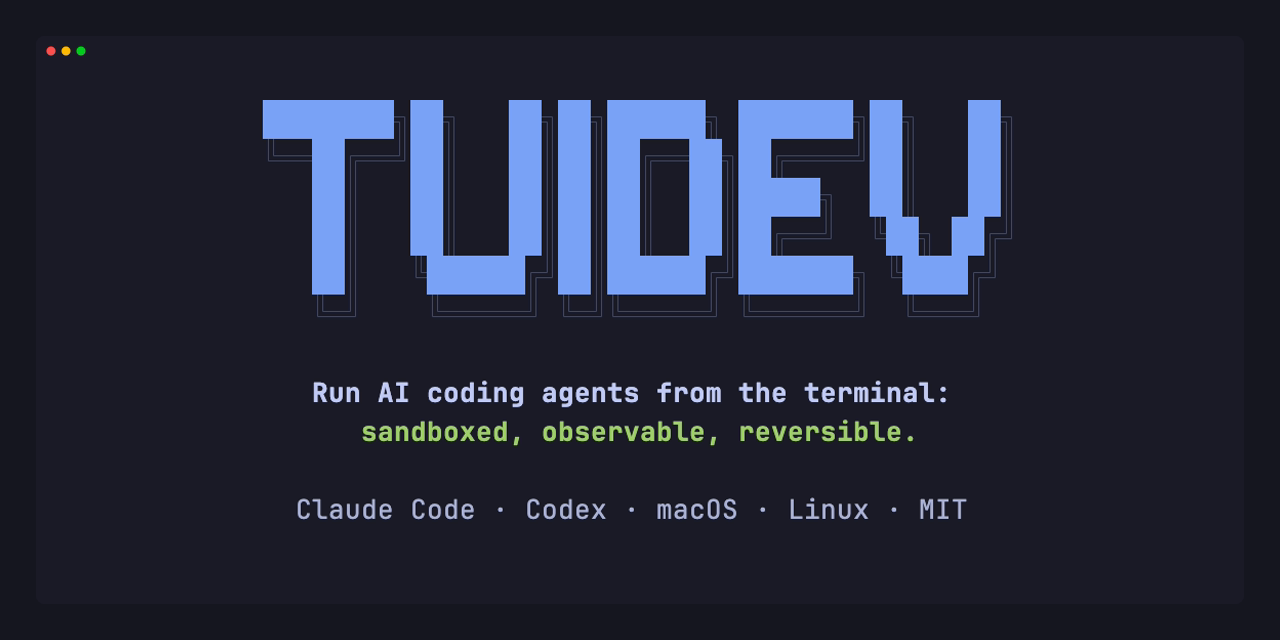
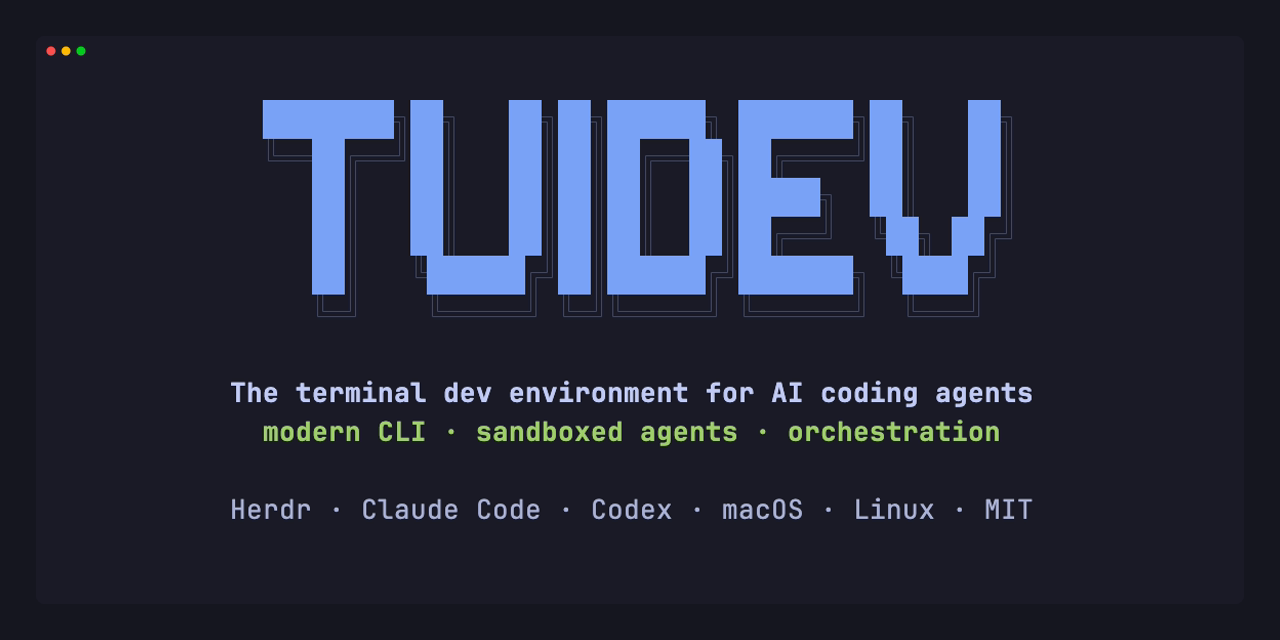
docs: present tuidev as a terminal dev environment for AI agents
README leads with a tour GIF and seven pillars; social card, VISION, quick start and CONTRIBUTING match.

Changed region(s): [[0.1562, 0.5938, 0.8125, 0.7188], [0.1562, 0.7812, 0.8125, 0.8125]]

diff --git a/README.md b/README.md
@@ -1,6 +1,6 @@
 # tuidev
 
-**A terminal setup for running AI coding agents on macOS and Linux: Claude Code and Codex sandboxed by default (`--pack ai-clis`), easy to watch, and installed in layers you can undo.**
+**The terminal dev environment for AI coding agents: modern CLI tools, Claude Code and Codex sandboxed and orchestrated, sessions that outlive your laptop, and an install you can undo.**
 
 [![CI](https://github.com/spfr/tuidev/actions/workflows/ci.yml/badge.svg)](https://github.com/spfr/tuidev/actions/workflows/ci.yml)
 [![Release](https://img.shields.io/github/v/release/spfr/tuidev?sort=semver)](https://github.com/spfr/tuidev/releases/latest)
@@ -8,25 +8,66 @@
 ![Linux](https://img.shields.io/badge/Linux-FCC624?style=flat&logo=linux&logoColor=black)
 [![License](https://img.shields.io/badge/license-MIT-blue)](LICENSE)
 
-![The agents command in a terminal. Three sessions: a Claude Code session in api, blocked and waiting for input, with its polling command; a working Claude Code session in myapp with two MCP servers and three commands, two of them from subagents in their own worktrees; an idle Codex session in web running a dev server on port 5173. Below them, two stale processes a crashed session left behind, one CPU hog, and a status line with CPU, memory, battery, thermal pressure and keep-awake.](docs/assets/agents.png)
+![A short terminal tour in three scenes. First, the Starship prompt in a repo, ll listing files with a git status column, and git diff through delta. Second, the agents command listing a blocked Claude Code session, a working one, an idle Codex session, stale processes and a CPU hog. Third, cat reading a demo SSH key without a sandbox, then sbx refusing the same read and a write to ~/.zshrc with "Operation not permitted" while make test still runs and passes.](docs/assets/tour.gif)
 
-<sub>`agents` (`--pack monitoring`) over demo fixtures: what your Claude Code and Codex sessions run, what they left behind, and what is eating the CPU. Rendered with `make screenshots`.</sub>
+<sub>The shell, `agents` and `sbx` in a demo home with made-up data, rendered with `make screenshots`.</sub>
 
-tuidev is shell scripts and configs for coding with AI agents from the terminal. Claude Code is the primary CLI and Codex the second: run them in a Ghostty tab and review the diff in VS Code or Cursor. It installs a small core, and everything else is an opt-in pack.
+tuidev is shell scripts and configs for coding with AI agents from the terminal on macOS and Linux. Claude Code is the primary CLI and Codex the second: run them in a Ghostty tab and review the diff in VS Code or Cursor. It installs a small core, and everything else is an opt-in pack.
 
-## Why tuidev
+## What you get
 
-- **Agents don't get your credentials.** `--pack ai-clis` turns on Claude Code's and Codex's own sandboxes, so plain `claude` and `codex` run confined without a wrapper. Claude Code's Bash and `Read` tools are denied `~/.ssh`, `~/.aws` and the other 21 paths on one [credential list](configs/sandbox/credential-paths.txt). For everything else, including Codex, whose sandbox limits writes and network but not reads, `sbx` runs any command under a macOS Seatbelt profile that denies the same list. A contract test keeps every copy of the list in step. [Sandboxing](docs/sandboxing.md)
-- **You see what your agents run, and can stop it.** `agents` lists each session with its MCP servers, ports and the commands its subagents run in their worktrees, flags the MCP and dev servers a crashed session left running, and kills a tree, descendants first, re-checking each process's start time before every signal. With [Herdr](https://herdr.dev/), sessions waiting for you come first. On macOS its SwiftBar menu shows the same, keeps the Mac awake while agents run, and shows CPU, memory, battery and thermal pressure, standing in for Amphetamine and Stats. [Agent workflows](docs/agent-workflows.md#local-processes-agents---pack-monitoring)
-- **Subagents on the cheapest tier that works.** `--pack orchestration` pins Claude Code and Codex subagents to tiers (on Claude: Haiku for search and command runs, Sonnet for standard implementation, Opus for complex work and review) and adds a delegation skill for parallel worktrees. It installs on its own, without the rest of tuidev. [Orchestration](docs/orchestration.md)
-- **An install you can preview and undo.** Pick a profile or compose packs, and `--dry-run` shows every change first. Config goes into managed blocks, so your own lines survive, and a config file you edited keeps your changes through updates. Every install is recorded, `./uninstall.sh` removes only what tuidev put there, and one-shot migrations clean up after older releases. [Updating](docs/updating.md)
-- **Sessions that outlive your laptop.** On an always-on machine you reach over Tailscale, SSH or mosh, tmux or Herdr keeps an agent running while you're away; `t NAME` re-attaches. [Remote](docs/remote.md)
-- **One palette.** One `palette.toml` colors Ghostty, tmux and Starship; `make theme NAME=catppuccin-mocha` switches all three. [Theming](docs/theming.md)
-- **Linux too.** `minimal` and `remote` install with `apt-get`, `dnf` or `pacman` when there's no Homebrew, and `agents` works there. `sbx` and the `ui` pack are macOS only. [Profiles](docs/profiles.md)
+### A modern terminal in one command
 
-![sbx in a terminal: without a sandbox, cat of ~/.ssh/id_ed25519 prints the key; under sbx the same read and a read of ~/.aws/credentials fail with "Operation not permitted", so does appending to ~/.zshrc, and make test in the project still runs and passes.](docs/assets/sbx.png)
+`./install.sh` sets up Ghostty, zsh with autosuggestions, syntax highlighting and completions, a Starship prompt, and the tools below, with aliases wired in: `cat` runs `bat`, `ls` and `ll` run `eza`, `cd` runs `zoxide`, `lg` runs `lazygit` and `top` runs `btm` once those are installed. One `palette.toml` colors Ghostty, tmux and Starship, and `make theme NAME=catppuccin-mocha` switches all three. [Profiles](docs/profiles.md) · [Cheatsheet](docs/CHEATSHEET.md) · [Theming](docs/theming.md)
+
+<img src="docs/assets/shell.png" width="800" alt="A terminal in a demo repo under the Starship prompt: ll lists README.md, src and tests with a git status column, and git diff shows a one-line change in delta, with line numbers and the changed words highlighted.">
+
+| Category | Tools |
+|----------|-------|
+| Terminal and shell | Ghostty, zsh plugins, Starship, zoxide; atuin (extras) |
+| Search and files | ripgrep, fd, fzf, bat, eza; broot, dust, duf, procs, sd (extras) |
+| Git and review | git, git-delta, gh; lazygit (extras); `hunk`, a review-first diff viewer (`--pack hunk`) |
+| Data and HTTP | jq, yq; xh (extras) |
+| Quality and speed | shellcheck; hyperfine, tokei, tealdeer, glow (extras) |
+| Python | uv (extras) |
+| Monitoring | bottom, lazydocker (`--pack monitoring`) |
+
+Unlabeled tools are in core. The extras (`--extras`) are optional, and whatever your package manager lacks is skipped.
+
+### Agents sandboxed by default
+
+`--pack ai-clis` turns on Claude Code's and Codex's own sandboxes, so plain `claude` and `codex` run confined without a wrapper, and gates git and gh writes behind a prompt. Claude Code's Bash and `Read` tools are denied `~/.ssh`, `~/.aws` and the other 21 paths on one [credential list](configs/sandbox/credential-paths.txt). Codex's sandbox limits writes and network but not reads, so for anything else `sbx` runs a command under a macOS Seatbelt profile that denies the same list. A contract test keeps every copy of the list in step. [Sandboxing](docs/sandboxing.md)
+
+<img src="docs/assets/sbx.png" width="800" alt="sbx in a terminal: without a sandbox, cat of ~/.ssh/id_ed25519 prints the key; under sbx the same read and a read of ~/.aws/credentials fail with &quot;Operation not permitted&quot;, so does appending to ~/.zshrc, and make test in the project still runs and passes.">
 
 <sub>Without a sandbox, any command an agent runs can read your keys. Under `sbx` (strict profile), the same read is refused, so are the other credentials and writes outside the project, and the project's own work still runs. Demo home with made-up files.</sub>
+
+### Subagents on the cheapest tier that works
+
+`--pack orchestration` pins Claude Code's subagents to tiers: Haiku for `Explore` and `executor` (search and command runs), Sonnet for `implementor-standard`, Opus for `implementor-complex` and `reviewer`. Codex gets the same roles in `~/.codex/agents`, without `Explore`. A `delegation` skill runs implementors in parallel git worktrees and brings their work back. It installs on its own, without the rest of tuidev. [Orchestration](docs/orchestration.md)
+
+### Agent workflow support
+
+- **Parallel work:** `claude -w NAME` starts a session in its own worktree, and subagents can too.
+- **Know when you're needed:** Claude Code hooks call `notify.sh`, which shows a Herdr toast, a tmux message, a macOS banner or a Linux desktop notification, and pushes to your phone through [ntfy](https://ntfy.sh) when you set `NTFY_URL`.
+- **Herdr** (`--pack herdr`) is an agent-aware multiplexer that marks each pane `working`, `blocked`, `done` or `idle`.
+- **Review first:** `hunk` for review-first diffs, and a starter [`AGENTS.md`](templates/AGENTS_TEMPLATE.md) for your own projects.
+
+[Agent workflows](docs/agent-workflows.md)
+
+### See and stop what agents run
+
+`agents` (`--pack monitoring`) lists each session with its MCP servers, ports and the commands its subagents run in their worktrees, and flags the MCP and dev servers a crashed session left running. It kills a tree, descendants first, re-checking each process's start time before every signal. With Herdr, sessions waiting for you come first. On macOS its SwiftBar menu shows the same, keeps the Mac awake while agents run, and shows CPU, memory, battery and thermal pressure. [Agent workflows](docs/agent-workflows.md#local-processes-agents---pack-monitoring)
+
+<img src="docs/assets/agents.png" width="800" alt="The agents command in a terminal. Three sessions: a Claude Code session in api, blocked and waiting for input, with its polling command; a working Claude Code session in myapp with two MCP servers and three commands, two of them from subagents in their own worktrees; an idle Codex session in web running a dev server on port 5173. Below them, two stale processes a crashed session left behind, one CPU hog, and a status line with CPU, memory, battery, thermal pressure and keep-awake.">
+
+### Sessions that outlive your laptop
+
+On an always-on machine you reach over Tailscale, SSH or mosh, tmux or Herdr keeps an agent running while you're away, and `t NAME` re-attaches. Blink Shell and Moshi on iOS are covered too. [Remote](docs/remote.md)
+
+### An install you can preview and undo
+
+Pick a profile or compose packs, and `--dry-run` shows every change first. Config goes into managed blocks, so your own lines survive, and a config file you edited keeps your changes through updates. Every install is recorded, `./uninstall.sh` removes only what tuidev put there, and one-shot migrations clean up after older releases. `minimal` and `remote` also install on Linux with `apt-get`, `dnf` or `pacman` when there's no Homebrew. [Updating](docs/updating.md)
 
 ## Who it's for
 
@@ -85,7 +126,7 @@ Compose your own with `--core`, `--remote`, `--sandbox`, `--ui` and `--extras`, 
 | `sandbox-container` | Tier 2 sandboxing in a container runtime (Apple `container`, Podman or Docker) |
 | `fnm`, `hunk` | Node via fnm; a review-first diff viewer |
 
-What each profile and pack installs is in [docs/profiles.md](docs/profiles.md). macOS needs Homebrew. On Linux, `minimal` and `remote` also install without it, and anything the distro lacks is skipped with a link to its upstream installer.
+What each profile and pack installs is in [docs/profiles.md](docs/profiles.md). macOS needs Homebrew. On Linux, `minimal` and `remote` also install without it, and anything the distro lacks is skipped with a link to its upstream installer. `sbx` and the `ui` pack are macOS only.
 
 ## Everyday commands
 

diff --git a/CHANGELOG.md b/CHANGELOG.md
@@ -8,12 +8,25 @@ and this project adheres to [Semantic Versioning](https://semver.org/spec/v2.0.0
 ## [Unreleased]
 
 ### Changed
+- **The README presents tuidev as a terminal dev environment for AI coding
+  agents, not a process monitor.** It opens with a short GIF tour (the shell,
+  `agents`, `sbx`) and seven pillars: the modern terminal and its tools (with
+  a table by category), sandboxed agents, tiered orchestration, agent
+  workflow support (worktrees, notifications, Herdr, `hunk`), `agents` and the
+  menu bar, remote sessions, and an undoable install. VISION, the quick start
+  and CONTRIBUTING open with the same description, and the social preview
+  card's subtitle is no longer monitoring-centric.
+- **New images:** `docs/assets/tour.gif` (the hero) and `shell.png` (the real
+  Starship prompt with the shipped config and palette, `ll`, and `git diff`
+  through delta, in a demo repo), from `tour.tape` and `shell.tape`.
 - **The `sbx` screenshot tells a before/after story.** It reads a made-up key
   without a sandbox, then shows `sbx` refusing that read, the AWS credentials
   and a write to `~/.zshrc`, while `make test` still runs. Its demo home is
   now `/Users/Shared/NAME` (strict lets `sbx` write to `$TMPDIR`, which would
-  have made the write denial false), and `make screenshots` deletes the old
-  PNG first, because VHS silently keeps an existing one.
+  have made the write denial false).
+- **`make screenshots` is stricter.** It deletes each tape's old images first
+  and fails if one is not written: VHS can drop a `Screenshot` that is a
+  tape's last command, so the tapes now end with a `Sleep`.
 
 ## [3.3.3] - 2026-10-14
 

diff --git a/CONTRIBUTING.md b/CONTRIBUTING.md
@@ -1,6 +1,6 @@
 # Contributing to tuidev
 
-Thanks for your interest. tuidev is a terminal setup for running AI coding agents: sandboxed by default, easy to watch, and installed in layers you can undo. A good change makes it better at that without growing the core. Read [VISION.md](VISION.md) before proposing anything directional, and [docs/engineering.md](docs/engineering.md) before touching `install.sh`, `scripts/`, `bin/` or `configs/`. It holds the architecture, shared libraries, pack contract and managed-block rules that this file only summarizes.
+Thanks for your interest. tuidev is a terminal dev environment for AI coding agents: modern CLI tools, agents sandboxed by default and orchestrated, easy to watch, and installed in layers you can undo. A good change makes it better at that without growing the core. Read [VISION.md](VISION.md) before proposing anything directional, and [docs/engineering.md](docs/engineering.md) before touching `install.sh`, `scripts/`, `bin/` or `configs/`. It holds the architecture, shared libraries, pack contract and managed-block rules that this file only summarizes.
 
 ## Reporting issues
 

diff --git a/VISION.md b/VISION.md
@@ -1,6 +1,6 @@
 # Vision
 
-tuidev is an opinionated, minimal terminal setup for running AI coding agents: sandboxed by default, easy to watch, and installed in layers you can undo. macOS is the daily driver, and Linux nodes are first-class for the remote path. It is a sharp system with a small core, not a kitchen-sink bootstrapper.
+tuidev is an opinionated terminal dev environment for AI coding agents: modern CLI tools, Claude Code and Codex sandboxed by default and orchestrated, easy to watch, and installed in layers you can undo. macOS is the daily driver, and Linux nodes are first-class for the remote path. It is a sharp system with a small core, not a kitchen-sink bootstrapper.
 
 Priorities, in order:
 

diff --git a/docs/QUICK_START_GUIDE.md b/docs/QUICK_START_GUIDE.md
@@ -1,6 +1,6 @@
 # Quick Start
 
-From a fresh clone to a sandboxed agent running next to your editor, in about ten minutes. tuidev sets up the terminal for running Claude Code and Codex: sandboxed by default with `--pack ai-clis`, easy to watch, and installed in layers you can undo. For reference material, see [CHEATSHEET.md](CHEATSHEET.md).
+From a fresh clone to a sandboxed agent running next to your editor, in about ten minutes. tuidev is a terminal dev environment for Claude Code and Codex: modern CLI tools, agents sandboxed by default with `--pack ai-clis`, easy to watch, and installed in layers you can undo. For reference material, see [CHEATSHEET.md](CHEATSHEET.md).
 
 ## 1. Install
 
